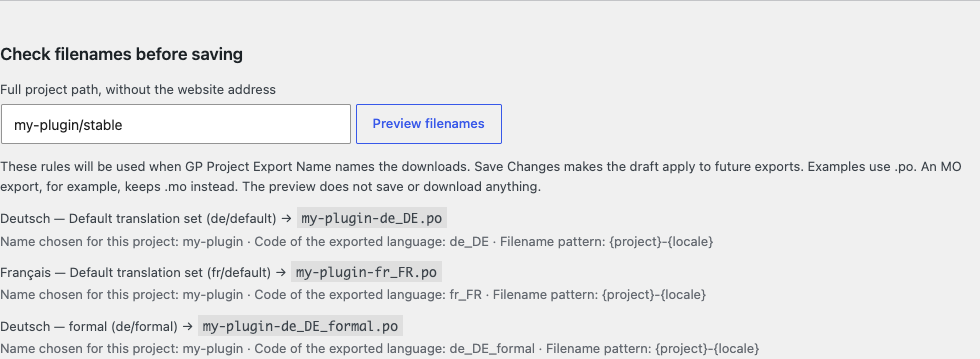
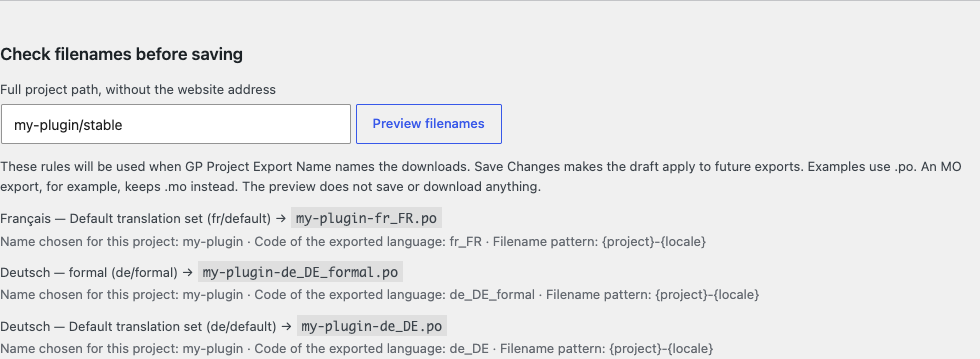
Illustrate saving and populate the GlotPress export example

diff --git a/tools/build-publishing.py b/tools/build-publishing.py
@@ -17,7 +17,7 @@ for lang,data in d.items():
  text=q(data['quickstart']);steps=data['quickstart']['steps']
  # Attach images to their exact shared-source step, preserving all instruction text.
  for i,step in enumerate(steps):
-  image=['overview','project','preview','overview','export'][i]
+  image=['overview','project','preview','save','export'][i]
   needle=('   '+step['tip']+'\n\n') if step.get('tip') else ('   '+step['text']+'\n\n')
   caption=('GlotPress verwendet hier seine eigene Oberflächensprache.' if de and i==4 else step['title'])
   text=text.replace(needle,needle+'   !['+caption+']('+raw+'docs/screenshots/'+image+'-'+lang+'.png)\n\n',1)
